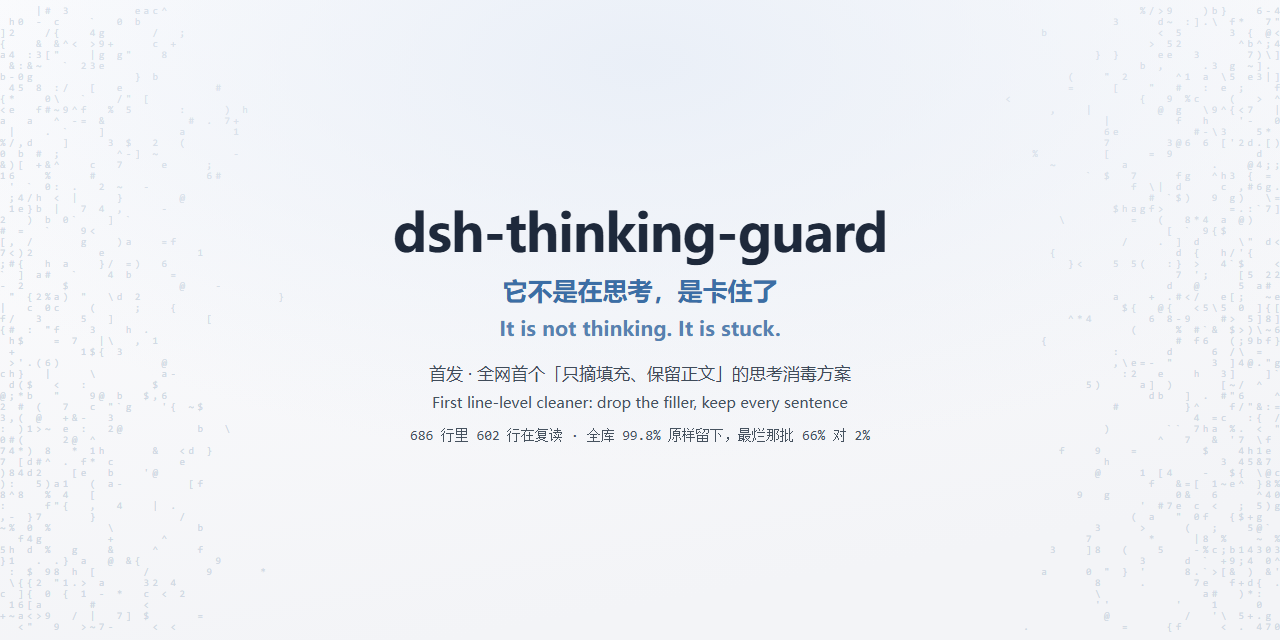
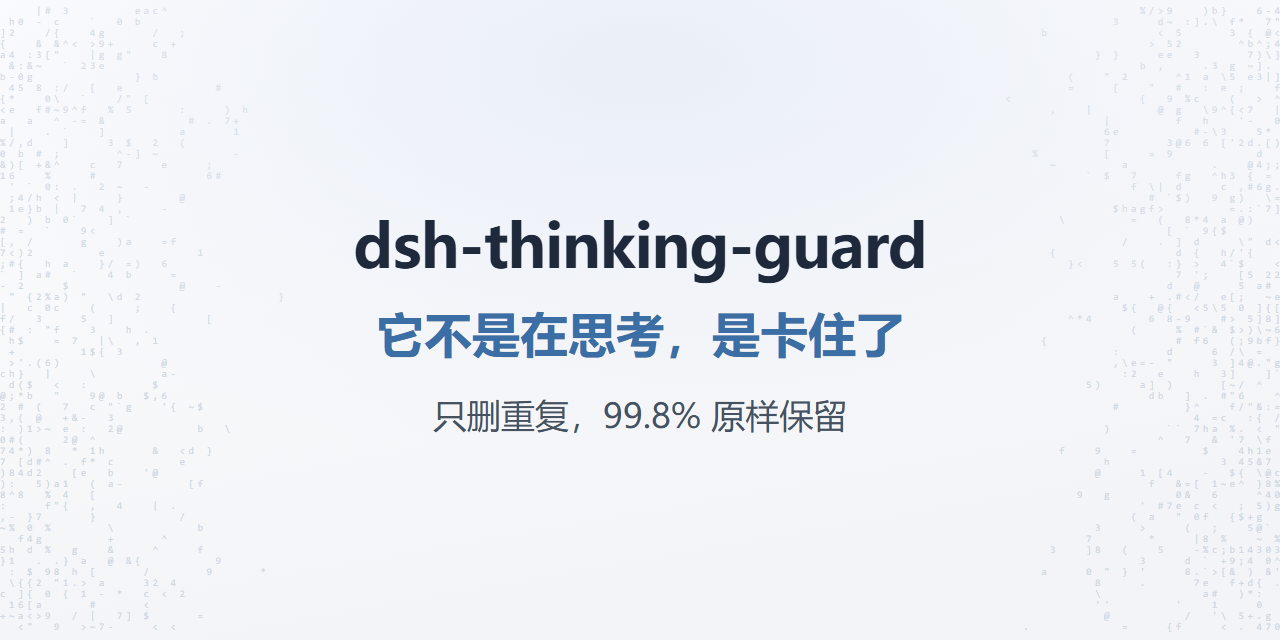
social preview 只留三行 + README 两段改成人话
缩到实际卡片 300px 量过：25px 的钩子缩完只剩 5.9px，后四层全是糊的灰点。现在只留三行（项目名 60 / 钩子 48 / 说明 34），缩完是 14/11/8px，都读得出来。README 开头和「它做了什么」里的内部术语（块、占位行、退化块）换成段思考、重复行、最烂的那 69 段。

Changed region(s): [[0.2812, 0.3125, 0.7188, 0.6875]]

diff --git a/README.en.md b/README.en.md
@@ -24,8 +24,8 @@
 
 <p align="center">
   Cutting loses the second half of a thought. Replacing a whole block throws the good part away with the bad.<br>
-  Across all 17,633 reasoning blocks on our disks: <b>99.8% of the reasoning survives</b> — only 0.21% is stripped.<br>
-  Even the <b>69 worst blocks</b> keep 66% of their characters, where whole-block replacement throws away 98%.
+  When a model gets stuck it writes the same sentence over and over — in one real record, 602 of 686 lines were the same line.<br>
+  The plugin drops those repeat lines before each request and leaves the rest untouched: across 17,633 reasoning blocks, <b>99.8% of the characters survive</b>.
 </p>
 
 <p align="center">
@@ -145,7 +145,7 @@ Only after all that did I land on "count inside the stream and cut it" — and t
 Two layers. **The first one is the main road — it runs whenever the colour is on**:
 
 > Before each request, every line that is nothing but 「做。」「好。」「嗯。」 is dropped from the history, and the rest is kept verbatim.
-> Across all 17,633 blocks: **99.8% of the reasoning still reaches the model**, with just 0.21% stripped — most blocks carry no filler at all. Even the 69 worst degenerate blocks keep 66% of their characters, where whole-block replacement throws away 98%.
+> Across 17,633 reasoning blocks: **99.8% of the characters still reach the model**, with just 0.21% stripped — most blocks contain no repeat at all. Even the 69 worst ones keep 66%, where whole-block deletion throws away 98%.
 
 <p align="center">
   <img src="assets/strip-keep-en.svg" alt="Only the filler lines are dropped; every real sentence stays" width="880">

diff --git a/README.md b/README.md
@@ -22,8 +22,8 @@
 
 <p align="center">
   打断会丢掉后半段，整块删除会连真话一起扔。<br>
-  全库 17,633 个思考块量下来：<b>99.8% 的推理原样留下</b>，剥掉的只有 0.21%——<br>
-  连<b>最烂的那 69 个块</b>（整块替换会扔掉 98%）我们也留住了 66%。
+  模型卡住时会对着同一句话反复写——真实记录里有一次 686 行有 602 行是同一句。<br>
+  这个插件在发请求前把这些重复行摘掉、正文一字不动：全库 17,633 段思考，<b>99.8% 的字符原样留着</b>。
 </p>
 
 <p align="center">
@@ -145,7 +145,7 @@
 分两层。**第一层是主路，只要开着「整理」就始终生效**：
 
 > 发请求之前，把历史里那些「做。」「好。」「嗯。」整行剔掉，其余一个字不动。
-> 全库 17,633 个块：**99.8% 的推理原样留给模型**，剥掉的只有 0.21%——大多数块里一个占位行都没有。最烂的那 69 个退化块（整块替换会扔掉 98%），也留住了 66%。
+> 全库 17,633 段思考：**99.8% 的字符原样留给模型**，摘掉的只有 0.21%——大多数段里一句重复都没有。连最烂的那 69 段（整块删除会扔掉 98%），也留住了 66%。
 
 这一层治的是「模型看见自己写过废话 → 下一轮照着写」的自我强化。它和别人的做法差在哪、为什么不能整块删，见[原理](#-原理)那一节。打断会丢掉后半段，整块删除会连真话一起扔，逐行剥离不会。
 
